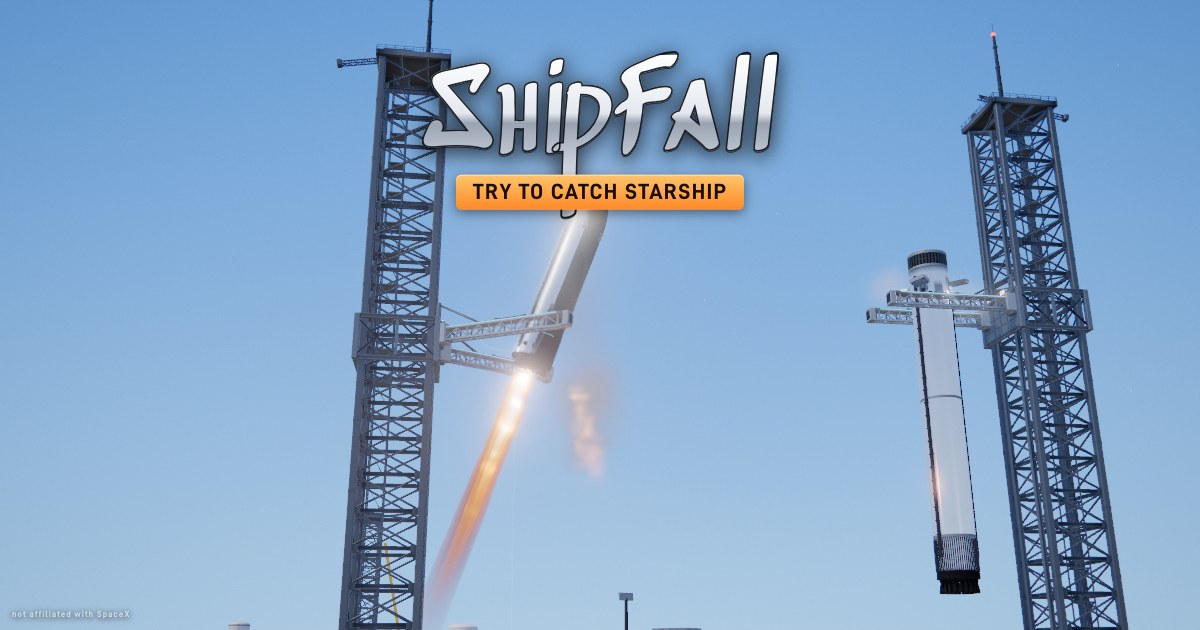
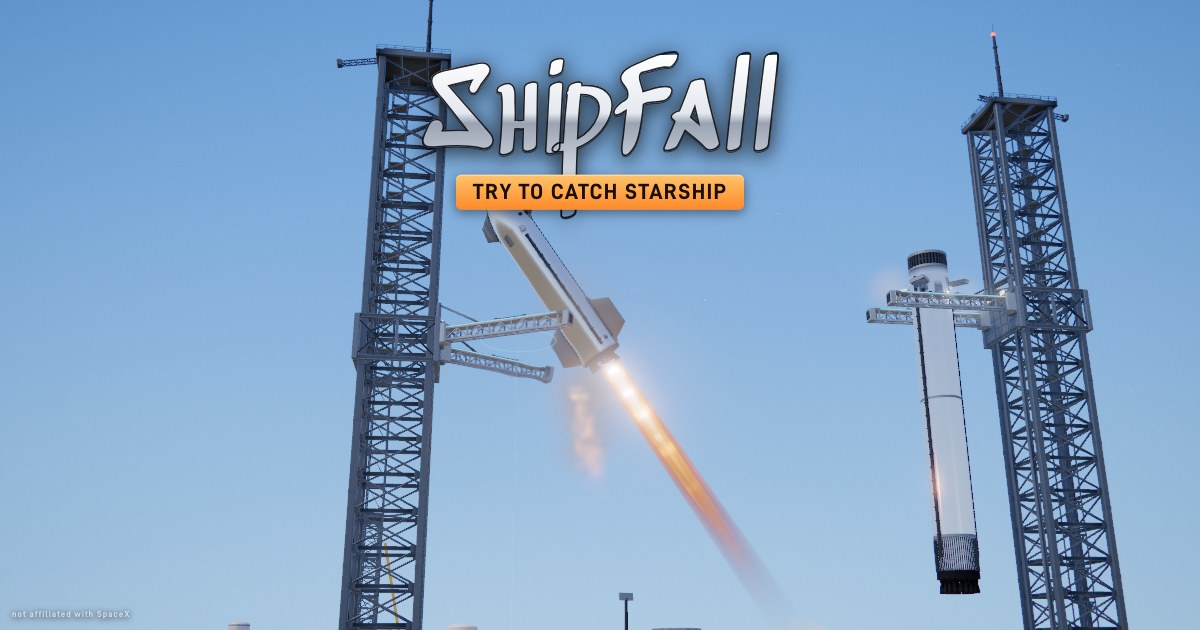
Ship flips nose-in toward its tower and drifts in from the far side; new pause card; ARMS labels
- Belly-first ship points its nose at the tower, swings upright leaning in, rolling so the tiles end facing away
- Ship drift is always toward its tower
- Pause card: stat tiles, Resume, icon buttons for Restart / Home / Sound
- Catch-mode up/down buttons labelled ARMS
- Card re-rendered on the new flip

Changed region(s): [[0.3392, 0.3317, 0.6475, 0.9651]]

diff --git a/src/game.html b/src/game.html
@@ -171,15 +171,16 @@
   </section>
 
   <section id="pause" class="overlay hidden">
-    <div class="card">
+    <div class="card pause-card">
       <p class="kicker">paused</p>
-      <h1 class="go-score"><span id="pause-score">0</span><small>pts</small></h1>
-      <p class="lede" id="pause-stats"></p>
-      <div class="actions pause-actions">
-        <button id="resume" class="btn primary" type="button">Resume</button>
-        <button id="restart" class="btn" type="button">Restart</button>
-        <button id="home" class="btn" type="button">Home</button>
-        <button id="pause-sound" class="btn" type="button" aria-pressed="false">Sound off</button>
+      <div class="pause-grid" id="pause-stats"></div>
+      <div class="pause-actions">
+        <button id="resume" class="btn primary" type="button"><svg viewBox="0 0 24 24" width="16" height="16" aria-hidden="true"><path fill="currentColor" d="M7 4.5v15l12.5-7.5z"/></svg>Resume</button>
+        <div class="pause-row">
+          <button id="restart" class="btn icon-label" type="button"><svg viewBox="0 0 24 24" width="18" height="18" aria-hidden="true"><path fill="none" stroke="currentColor" stroke-width="2" stroke-linecap="round" stroke-linejoin="round" d="M4 12a8 8 0 1 0 2.6-5.9M4 4v4.5h4.5"/></svg><span>Restart</span></button>
+          <button id="home" class="btn icon-label" type="button"><svg viewBox="0 0 24 24" width="18" height="18" aria-hidden="true"><path fill="none" stroke="currentColor" stroke-width="2" stroke-linejoin="round" d="M4 11 12 4l8 7v9h-5v-6H9v6H4z"/></svg><span>Home</span></button>
+          <button id="pause-sound" class="btn icon-label" type="button" aria-pressed="false"><svg viewBox="0 0 24 24" width="18" height="18" aria-hidden="true"><path fill="currentColor" d="M4 9v6h4l5 4V5L8 9H4z"/><path class="wave" fill="none" stroke="currentColor" stroke-width="2" stroke-linecap="round" d="M16 8.5a5 5 0 0 1 0 7"/><path class="mute" fill="none" stroke="currentColor" stroke-width="2" stroke-linecap="round" d="M16 9l5 5M21 9l-5 5"/></svg><span>Sound off</span></button>
+        </div>
       </div>
     </div>
   </section>
@@ -223,8 +224,8 @@
       <button data-k="right" type="button" aria-label="Thrust right">▶</button>
     </div>
     <div class="cluster">
-      <button data-k="up" type="button" aria-label="Arms up / throttle up"><span class="k-arm">▲</span><span class="k-thr">▲<small>THRUST</small></span></button>
-      <button data-k="down" type="button" aria-label="Arms down / throttle down"><span class="k-arm">▼</span><span class="k-thr">▼<small>THRUST</small></span></button>
+      <button data-k="up" type="button" aria-label="Arms up / throttle up"><span class="k-arm">▲<small>ARMS</small></span><span class="k-thr">▲<small>THRUST</small></span></button>
+      <button data-k="down" type="button" aria-label="Arms down / throttle down"><span class="k-arm">▼<small>ARMS</small></span><span class="k-thr">▼<small>THRUST</small></span></button>
       <button data-k="close" type="button" class="catch" aria-label="Close arms">CATCH</button>
     </div>
   </div>

diff --git a/styles.css b/styles.css
@@ -138,8 +138,20 @@ kbd.wide { min-width: 64px; }
 #leaderboard .actions { margin-top: 16px; }
 .go-score { display: flex; align-items: baseline; gap: 10px; }
 body.paused #touch { display: none; }
-.pause-actions .btn:first-child { flex-basis: 100%; }
-body.free-flight #pause .go-score small { display: none; }
+/* Pause card: a centered stat row, Resume, then icon buttons. */
+.pause-card { width: min(400px, calc(100vw - 32px)); text-align: center; }
+.pause-card .kicker { margin-bottom: 14px; }
+.pause-grid { display: grid; grid-template-columns: repeat(auto-fit, minmax(0, 1fr)); gap: 8px; }
+.pause-grid div { padding: 12px 6px 10px; border-radius: 12px; border: 1px solid var(--line); background: rgba(255, 255, 255, 0.04); }
+.pause-grid b { display: block; font: 700 28px/1 var(--display); color: var(--ink); font-variant-numeric: tabular-nums; }
+.pause-grid span { display: block; margin-top: 6px; font: 600 10px/1 var(--display); letter-spacing: 0.16em; text-transform: uppercase; color: var(--muted); }
+.pause-actions { display: flex; flex-direction: column; gap: 10px; margin-top: 18px; }
+.pause-actions .btn.primary { display: flex; align-items: center; justify-content: center; gap: 8px; padding: 14px; font-size: 16px; }
+.pause-row { display: grid; grid-template-columns: repeat(3, 1fr); gap: 10px; }
+.btn.icon-label { display: flex; flex-direction: column; align-items: center; gap: 6px; padding: 12px 6px; font-size: 12px; letter-spacing: 0.06em; }
+#pause-sound .wave { display: none; }
+#pause-sound[aria-pressed='true'] .wave { display: inline; }
+#pause-sound[aria-pressed='true'] .mute { display: none; }
 /* Phone-width Mission: drop the two engine diagrams so the instrument bar fits the screen. */
 @media (max-width: 440px) { body.compact.free-flight .engines { display: none; } }
 .go-score small { font-size: 0.36em; font-weight: 600; letter-spacing: 0.08em; color: var(--muted); }
@@ -151,6 +163,8 @@ body.free-flight #pause .go-score small { display: none; }
 body.playing:not(.paused) #pause-btn { display: grid; }
 body.playing #sound { display: none; }
 .touch .k-thr, body.free-flight .touch .k-arm { display: none; }
+.touch .k-arm { display: flex; flex-direction: column; align-items: center; gap: 4px; line-height: 1; }
+.touch .k-arm small { font: 700 9px var(--display); letter-spacing: 0.12em; color: var(--muted); }
 body.free-flight .touch .k-thr { display: flex; flex-direction: column; align-items: center; gap: 4px; line-height: 1; }
 .touch .k-thr small { font: 700 9px var(--display); letter-spacing: 0.12em; color: var(--muted); }
 .icon-btn .wave { display: none; }

diff --git a/src/main.js b/src/main.js
@@ -246,15 +246,21 @@ function runGame() {
       if (pauseEl.contains(document.activeElement)) document.activeElement.blur();
       return;
     }
+    const stats = [];
     if (flight) {
       const t = Math.max(0, Math.floor(flight.t));
-      $('pause-score').textContent = `T+${String(Math.floor(t / 60)).padStart(2, '0')}:${String(t % 60).padStart(2, '0')}`;
-      $('pause-stats').textContent = 'Mission';
+      stats.push([`${String(Math.floor(t / 60)).padStart(2, '0')}:${String(t % 60).padStart(2, '0')}`, 'mission time'], [`${flight.ship.sats ?? 0}`, 'sats aboard']);
     } else {
-      const s = game.stats;
-      $('pause-score').textContent = game.score.toLocaleString('en-US');
-      $('pause-stats').textContent = `Round ${game.round} · ${s.catches} catch${s.catches === 1 ? '' : 'es'} · ${game.lives} booster${game.lives === 1 ? '' : 's'} left`;
+      stats.push([game.score.toLocaleString('en-US'), 'points'], [String(game.round), 'round'], [String(game.lives), 'tries left']);
     }
+    const grid = $('pause-stats');
+    grid.replaceChildren(
+      ...stats.map(([v, l]) => {
+        const d = document.createElement('div');
+        d.append(Object.assign(document.createElement('b'), { textContent: v }), Object.assign(document.createElement('span'), { textContent: l }));
+        return d;
+      }),
+    );
     $('resume').focus({ preventScroll: true });
   }
 
@@ -433,7 +439,7 @@ function runGame() {
     sound.setEnabled(on);
     soundBtn.setAttribute('aria-pressed', String(on));
     $('pause-sound').setAttribute('aria-pressed', String(on));
-    $('pause-sound').textContent = on ? 'Sound on' : 'Sound off';
+    $('pause-sound').querySelector('span').textContent = on ? 'Sound on' : 'Sound off';
     if (remember) writeSoundPref(on);
   }
 

diff --git a/src/three/view.js b/src/three/view.js
@@ -433,9 +433,11 @@ export class View {
         root.rotation.set(0, 0, a);
         root.position.set(X - Math.sin(a) * c, Y - c + Math.cos(a) * c, 0);
       } else if (b.kind === 'ship' && b.state === 'falling') {
-        // The ship falls belly first, level with its tiles down, and swings upright as the landing burn lights.
+        // The ship falls belly first, level with its tiles down and its nose toward the tower, and swings upright as the
+        // landing burn lights, nose leaning in; it rolls half a turn on the way so the tiles end up facing away.
         const k = b.burnT === null ? 0 : THREE.MathUtils.smoothstep(b.burnT, 0, SHIP_FLIP_S);
-        const a = (b.tower === 0 ? 1 : -1) * (Math.PI / 2) * (1 - k) - b.tilt;
+        const a = -(b.tower === 0 ? 1 : -1) * (Math.PI / 2) * (1 - k) - b.tilt;
+        if (slot.spin) slot.spin.rotation.y += Math.PI * (1 - k);
         const c = VEHICLES.ship.center / PX_PER_M;
         root.rotation.set(0, 0, a);
         root.position.set(X - Math.sin(a) * c, Y - c + Math.cos(a) * c, 0);

diff --git a/src/sim.js b/src/sim.js
@@ -162,6 +162,8 @@ export class Game {
       spawnDx: towardTower ? toward * r.range(15, 42) : -toward * r.range(60 + d * 10, 110 + d * 16),
       vx0: r.range(-12 - d * 4, 12 + d * 4),
     };
+    // The ship drifts in toward its tower.
+    if (kind === 'ship') p.vx0 = toward * Math.abs(p.vx0);
     const o = this.overrides[this.round]?.boosters?.[slot];
     return o ? { ...p, ...o } : p;
   }
